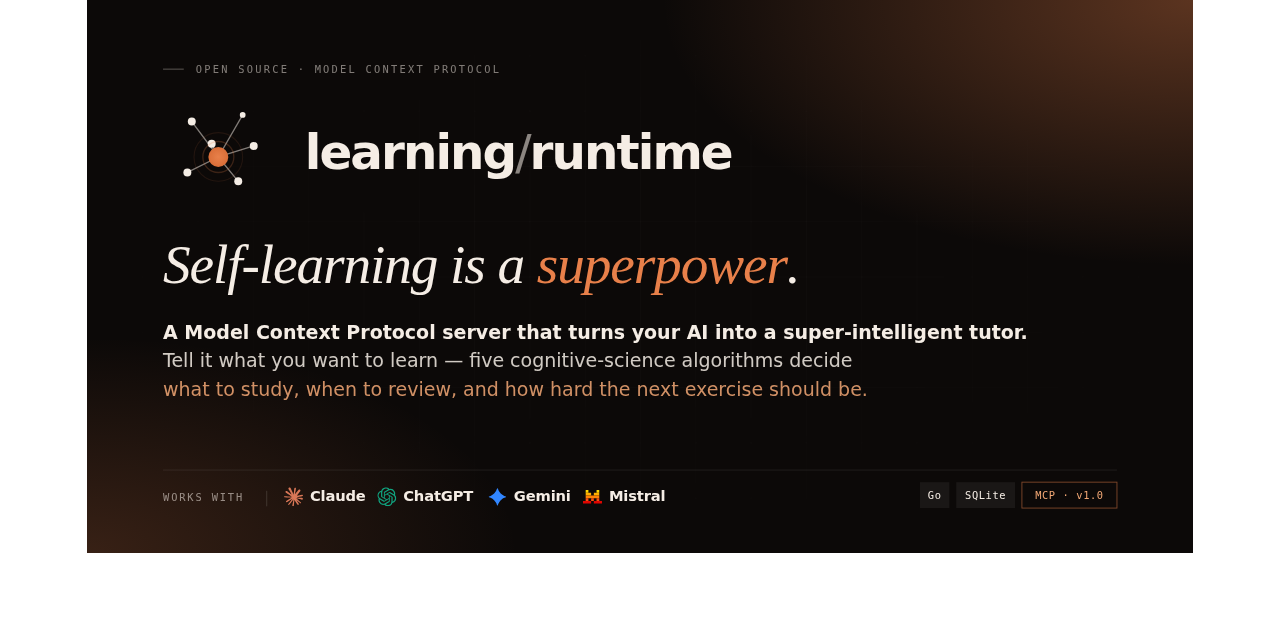
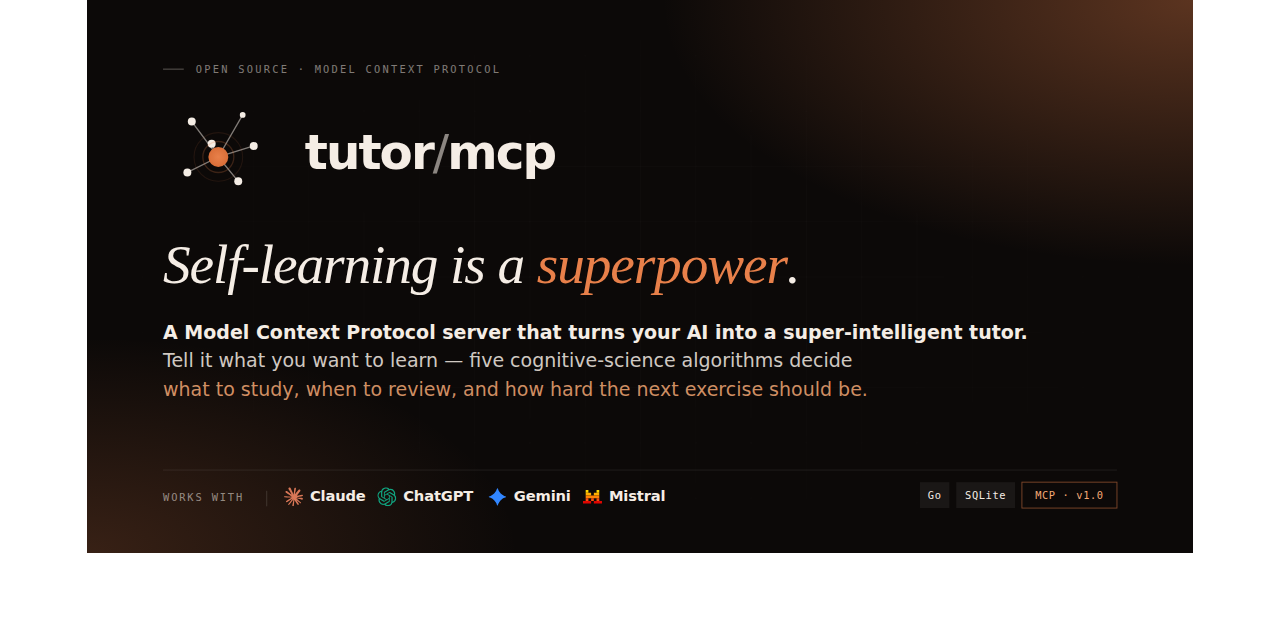
rename project: Learning Runtime → Tutor MCP
- Go module path learning-runtime → tutor-mcp (go.mod + 30+ imports)
- Binary name learning-runtime → tutor-mcp
- JWT audience learning-runtime/mcp → tutor-mcp/mcp (invalidates active tokens)
- MCP server name, prompt name, HTML title, README, banner SVG, social preview PNG
- systemd unit renamed out-of-tree (~/.config/systemd/user/tutor-mcp.service)

diff --git a/tools/prompt.go b/tools/prompt.go
@@ -10,7 +10,7 @@ import (
 	"github.com/modelcontextprotocol/go-sdk/mcp"
 )
 
-const systemPrompt = `Tu es un learning runtime — pas un assistant. Tu as un role precis.
+const systemPrompt = `Tu es un tutor MCP — pas un assistant. Tu as un role precis.
 
 OUTILS DISPONIBLES :
 - get_learner_context(domain_id?) : contexte de session, liste des domaines, progress_narrative
@@ -117,14 +117,14 @@ REGLES ABSOLUES — a chaque reponse, dans cet ordre :
     → Tu ne poses jamais plus d'une question a la fois
     → Tu vises a te rendre progressivement inutile`
 
-// RegisterPrompt registers the learning_runtime system prompt.
+// RegisterPrompt registers the tutor_mcp system prompt.
 func RegisterPrompt(server *mcp.Server) {
 	server.AddPrompt(&mcp.Prompt{
-		Name:        "learning_runtime",
-		Description: "System prompt pour le learning runtime",
+		Name:        "tutor_mcp",
+		Description: "System prompt pour le tutor MCP",
 	}, func(ctx context.Context, req *mcp.GetPromptRequest) (*mcp.GetPromptResult, error) {
 		return &mcp.GetPromptResult{
-			Description: "Learning Runtime system instructions",
+			Description: "Tutor MCP system instructions",
 			Messages: []*mcp.PromptMessage{
 				{Role: "user", Content: &mcp.TextContent{Text: systemPrompt}},
 			},

diff --git a/main.go b/main.go
@@ -17,10 +17,10 @@ import (
 	"syscall"
 	"time"
 
-	"learning-runtime/auth"
-	"learning-runtime/db"
-	"learning-runtime/engine"
-	"learning-runtime/tools"
+	"tutor-mcp/auth"
+	"tutor-mcp/db"
+	"tutor-mcp/engine"
+	"tutor-mcp/tools"
 
 	"github.com/modelcontextprotocol/go-sdk/mcp"
 )
@@ -62,7 +62,7 @@ func main() {
 
 	// Create MCP server
 	mcpServer := mcp.NewServer(&mcp.Implementation{
-		Name:    "learning-runtime",
+		Name:    "tutor-mcp",
 		Version: "1.0.0",
 	}, nil)
 
@@ -154,7 +154,7 @@ func main() {
 		shutdownErr <- server.Shutdown(ctx)
 	}()
 
-	logger.Info("learning runtime starting", "port", port, "base_url", baseURL)
+	logger.Info("tutor mcp starting", "port", port, "base_url", baseURL)
 	if err := server.ListenAndServe(); err != nil && err != http.ErrServerClosed {
 		logger.Error("server failed", "err", err)
 		os.Exit(1)

diff --git a/auth/jwt_test.go b/auth/jwt_test.go
@@ -68,7 +68,7 @@ func TestVerifyJWT_RejectsMissingAudience(t *testing.T) {
 func TestVerifyJWT_RejectsAlgNone(t *testing.T) {
 	// alg=none token, hand-crafted: header.payload.
 	header := base64.RawURLEncoding.EncodeToString([]byte(`{"alg":"none","typ":"JWT"}`))
-	payload := base64.RawURLEncoding.EncodeToString([]byte(`{"sub":"x","iss":"https://issuer.example","aud":"learning-runtime/mcp","exp":99999999999}`))
+	payload := base64.RawURLEncoding.EncodeToString([]byte(`{"sub":"x","iss":"https://issuer.example","aud":"tutor-mcp/mcp","exp":99999999999}`))
 	tok := header + "." + payload + "."
 
 	setTestSecret(t)

diff --git a/auth/jwt.go b/auth/jwt.go
@@ -32,7 +32,7 @@ func LoadJWTSecret() error {
 // JWTAudience is the resource identifier embedded in the aud claim and
 // required by VerifyJWT. Keeping it stable (independent of BASE_URL) means
 // tokens stay valid if the public hostname changes.
-const JWTAudience = "learning-runtime/mcp"
+const JWTAudience = "tutor-mcp/mcp"
 
 type Claims struct {
 	jwt.RegisteredClaims

diff --git a/auth/pages.go b/auth/pages.go
@@ -37,7 +37,7 @@ var authTmpl = template.Must(template.New("auth").Parse(`<!DOCTYPE html>
 <head>
   <meta charset="UTF-8" />
   <meta name="viewport" content="width=device-width, initial-scale=1.0" />
-  <title>Learning Runtime</title>
+  <title>Tutor MCP</title>
   <style>
     *, *::before, *::after { box-sizing: border-box; margin: 0; padding: 0; }
 

diff --git a/engine/motivation.go b/engine/motivation.go
@@ -8,9 +8,9 @@ import (
 	"encoding/json"
 	"time"
 
-	"learning-runtime/algorithms"
-	"learning-runtime/db"
-	"learning-runtime/models"
+	"tutor-mcp/algorithms"
+	"tutor-mcp/db"
+	"tutor-mcp/models"
 )
 
 // BriefInput gathers the signals the motivation engine needs to decide which brief (if any) to fire.

diff --git a/db/metacognition.go b/db/metacognition.go
@@ -9,7 +9,7 @@ import (
 	"fmt"
 	"time"
 
-	"learning-runtime/models"
+	"tutor-mcp/models"
 )
 
 // ─── Affect States ──────────────────────────────────────────────────────────

diff --git a/engine/alert.go b/engine/alert.go
@@ -9,8 +9,8 @@ import (
 	"math"
 	"time"
 
-	"learning-runtime/algorithms"
-	"learning-runtime/models"
+	"tutor-mcp/algorithms"
+	"tutor-mcp/models"
 )
 
 func ComputeAlerts(states []*models.ConceptState, recentInteractions []*models.Interaction, sessionStart time.Time) []models.Alert {

diff --git a/tools/calibration_test.go b/tools/calibration_test.go
@@ -11,9 +11,9 @@ import (
 	"testing"
 	"time"
 
-	"learning-runtime/auth"
-	"learning-runtime/db"
-	"learning-runtime/models"
+	"tutor-mcp/auth"
+	"tutor-mcp/db"
+	"tutor-mcp/models"
 
 	"github.com/modelcontextprotocol/go-sdk/mcp"
 	_ "modernc.org/sqlite"

diff --git a/tools/context.go b/tools/context.go
@@ -10,9 +10,9 @@ import (
 	"math"
 	"time"
 
-	"learning-runtime/algorithms"
-	"learning-runtime/engine"
-	"learning-runtime/models"
+	"tutor-mcp/algorithms"
+	"tutor-mcp/engine"
+	"tutor-mcp/models"
 
 	"github.com/modelcontextprotocol/go-sdk/mcp"
 )

diff --git a/tools/activity.go b/tools/activity.go
@@ -9,9 +9,9 @@ import (
 	"fmt"
 	"time"
 
-	"learning-runtime/algorithms"
-	"learning-runtime/engine"
-	"learning-runtime/models"
+	"tutor-mcp/algorithms"
+	"tutor-mcp/engine"
+	"tutor-mcp/models"
 
 	"github.com/modelcontextprotocol/go-sdk/mcp"
 )

diff --git a/tools/cockpit.go b/tools/cockpit.go
@@ -9,9 +9,9 @@ import (
 	"fmt"
 	"time"
 
-	"learning-runtime/algorithms"
-	"learning-runtime/engine"
-	"learning-runtime/models"
+	"tutor-mcp/algorithms"
+	"tutor-mcp/engine"
+	"tutor-mcp/models"
 
 	"github.com/modelcontextprotocol/go-sdk/mcp"
 )
